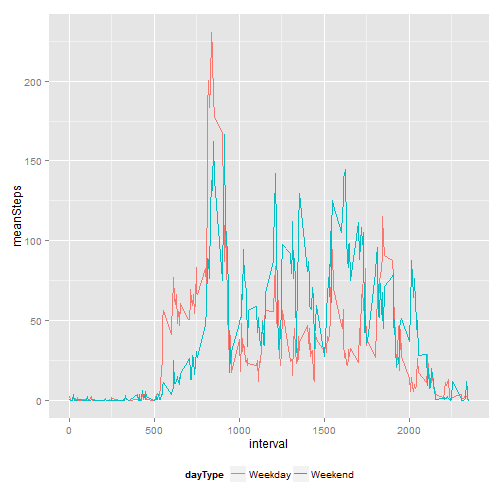
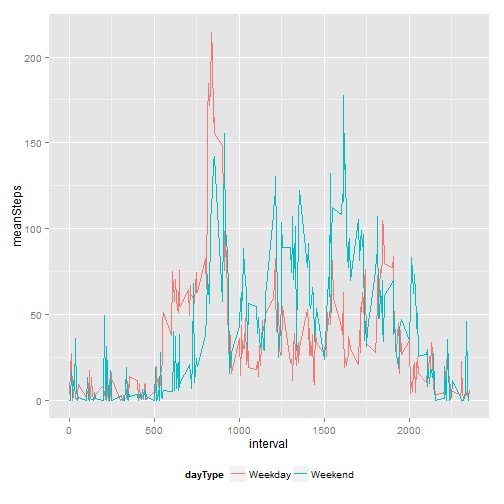
Test simple random imputation using mi package

diff --git a/PA1_template.html b/PA1_template.html
@@ -259,12 +259,46 @@ assignment so you do not have to download the data separately.</p>
 
 <p>Load packages.</p>
 
-<pre><code class="r">packages &lt;- c(&quot;data.table&quot;, &quot;ggplot2&quot;, &quot;xtable&quot;)
+<pre><code class="r">packages &lt;- c(&quot;data.table&quot;, &quot;ggplot2&quot;, &quot;xtable&quot;, &quot;mice&quot;, &quot;mi&quot;)
 sapply(packages, require, character.only = TRUE, quietly = TRUE)
 </code></pre>
 
-<pre><code>## data.table    ggplot2     xtable 
-##       TRUE       TRUE       TRUE
+<pre><code>## Warning: package &#39;mice&#39; was built under R version 3.0.3 Warning: package
+## &#39;Rcpp&#39; was built under R version 3.0.3
+</code></pre>
+
+<pre><code>## mice 2.21 2014-02-05
+</code></pre>
+
+<pre><code>## Warning: package &#39;mi&#39; was built under R version 3.0.3 Warning: package
+## &#39;arm&#39; was built under R version 3.0.3
+</code></pre>
+
+<pre><code>## Loading required package: MASS Loading required package: Matrix Loading
+## required package: lattice Loading required package: lme4
+## 
+## Attaching package: &#39;lme4&#39;
+## 
+## The following object is masked from &#39;package:ggplot2&#39;:
+## 
+## fortify
+## 
+## arm (Version 1.7-03, built: 2014-4-27)
+## 
+## Working directory is C:/Users/Ben/Documents/GitHub
+## repositories/RepData_PeerAssessment1
+## 
+## Attaching package: &#39;arm&#39;
+## 
+## The following object is masked from &#39;package:xtable&#39;:
+## 
+## display
+## 
+## mi (Version 0.09-18.03, built: 2013-8-22)
+</code></pre>
+
+<pre><code>## data.table    ggplot2     xtable       mice         mi 
+##       TRUE       TRUE       TRUE       TRUE       TRUE
 </code></pre>
 
 <blockquote>
@@ -359,7 +393,7 @@ Ignore the missing values.</p>
 
 <!-- html table generated in R 3.0.2 by xtable 1.7-1 package -->
 
-<!-- Sun May 11 07:33:42 2014 -->
+<!-- Sun May 11 13:42:30 2014 -->
 
 <TABLE border=1>
 <TR> <TH> mean </TH> <TH> median </TH>  </TR>
@@ -410,7 +444,7 @@ print(xtable(dt[, .N, isStepsMissing]), type = &quot;html&quot;, include.rowname
 
 <!-- html table generated in R 3.0.2 by xtable 1.7-1 package -->
 
-<!-- Sun May 11 07:33:43 2014 -->
+<!-- Sun May 11 13:42:30 2014 -->
 
 <TABLE border=1>
 <TR> <TH> isStepsMissing </TH> <TH> N </TH>  </TR>
@@ -418,14 +452,10 @@ print(xtable(dt[, .N, isStepsMissing]), type = &quot;html&quot;, include.rowname
   <TR> <TD> FALSE </TD> <TD align="right"> 15264 </TD> </TR>
    </TABLE>
 
-<p>Fit a linear model for the number of steps taken using the 5-minute interval as the predictor.
-Specify the 5-minute interval predictor as a factor class variable.
-This model estimates the mean number of steps taken for each 5-minute interval.
-Use the predicted values from this model to impute missing values; call this variable <code>stepsImputed</code>.</p>
+<p>Use the <a href="http://cran.r-project.org/web/packages/mi/index.html">mi</a> package to impute missing values of the <code>steps</code> variable.
+Use simple random imputation with a bootstrap method.</p>
 
-<pre><code class="r">M &lt;- lm(steps ~ factor(interval), data = dt, na.action = &quot;na.exclude&quot;)
-dt &lt;- dt[, `:=`(stepsImputed, steps)]
-dt$stepsImputed[dt$isStepsMissing] &lt;- predict(M, newdata = dt)[dt$isStepsMissing]
+<pre><code class="r">dt &lt;- dt[, `:=`(stepsImputed, random.imp(dt[, list(steps)]))]
 </code></pre>
 
 <p>Verify that there are no missing values for <code>stepsImputed</code>.</p>
@@ -436,7 +466,7 @@ dt$stepsImputed[dt$isStepsMissing] &lt;- predict(M, newdata = dt)[dt$isStepsMiss
 
 <!-- html table generated in R 3.0.2 by xtable 1.7-1 package -->
 
-<!-- Sun May 11 07:33:46 2014 -->
+<!-- Sun May 11 13:42:30 2014 -->
 
 <TABLE border=1>
 <TR> <TH> isMissing </TH> <TH> N </TH>  </TR>
@@ -474,14 +504,14 @@ dtDaily
 </code></pre>
 
 <pre><code>##           date sumSteps sumStepsImputed isImputed
-##  1: 2012-10-01        0           10766      TRUE
+##  1: 2012-10-01        0           10106      TRUE
 ##  2: 2012-10-02      126             126     FALSE
 ##  3: 2012-10-03    11352           11352     FALSE
 ##  4: 2012-10-04    12116           12116     FALSE
 ##  5: 2012-10-05    13294           13294     FALSE
 ##  6: 2012-10-06    15420           15420     FALSE
 ##  7: 2012-10-07    11015           11015     FALSE
-##  8: 2012-10-08        0           10766      TRUE
+##  8: 2012-10-08        0           10966      TRUE
 ##  9: 2012-10-09    12811           12811     FALSE
 ## 10: 2012-10-10     9900            9900     FALSE
 ## 11: 2012-10-11    10304           10304     FALSE
@@ -505,20 +535,20 @@ dtDaily
 ## 29: 2012-10-29     5018            5018     FALSE
 ## 30: 2012-10-30     9819            9819     FALSE
 ## 31: 2012-10-31    15414           15414     FALSE
-## 32: 2012-11-01        0           10766      TRUE
+## 32: 2012-11-01        0           12909      TRUE
 ## 33: 2012-11-02    10600           10600     FALSE
 ## 34: 2012-11-03    10571           10571     FALSE
-## 35: 2012-11-04        0           10766      TRUE
+## 35: 2012-11-04        0           11321      TRUE
 ## 36: 2012-11-05    10439           10439     FALSE
 ## 37: 2012-11-06     8334            8334     FALSE
 ## 38: 2012-11-07    12883           12883     FALSE
 ## 39: 2012-11-08     3219            3219     FALSE
-## 40: 2012-11-09        0           10766      TRUE
-## 41: 2012-11-10        0           10766      TRUE
+## 40: 2012-11-09        0           10411      TRUE
+## 41: 2012-11-10        0            7376      TRUE
 ## 42: 2012-11-11    12608           12608     FALSE
 ## 43: 2012-11-12    10765           10765     FALSE
 ## 44: 2012-11-13     7336            7336     FALSE
-## 45: 2012-11-14        0           10766      TRUE
+## 45: 2012-11-14        0            9797      TRUE
 ## 46: 2012-11-15       41              41     FALSE
 ## 47: 2012-11-16     5441            5441     FALSE
 ## 48: 2012-11-17    14339           14339     FALSE
@@ -534,7 +564,7 @@ dtDaily
 ## 58: 2012-11-27    13646           13646     FALSE
 ## 59: 2012-11-28    10183           10183     FALSE
 ## 60: 2012-11-29     7047            7047     FALSE
-## 61: 2012-11-30        0           10766      TRUE
+## 61: 2012-11-30        0            8831      TRUE
 ##           date sumSteps sumStepsImputed isImputed
 </code></pre>
 
@@ -544,7 +574,7 @@ dtDaily
     alpha = 1/2) + theme(legend.position = &quot;bottom&quot;)
 </code></pre>
 
[2 lines of base64/hex data omitted]
 
 <p>Calculate the mean and median total number of steps taken per day.</p>
 
@@ -555,11 +585,11 @@ dtDaily
 
 <!-- html table generated in R 3.0.2 by xtable 1.7-1 package -->
 
-<!-- Sun May 11 07:33:46 2014 -->
+<!-- Sun May 11 13:42:31 2014 -->
 
 <TABLE border=1>
 <TR> <TH> meanBefore </TH> <TH> meanImputed </TH> <TH> medianBefore </TH> <TH> medianImputed </TH>  </TR>
-  <TR> <TD align="right"> 9354.23 </TD> <TD align="right"> 10766.19 </TD> <TD align="right"> 10395 </TD> <TD align="right"> 10766.19 </TD> </TR>
+  <TR> <TD align="right"> 9354.23 </TD> <TD align="right"> 10693.85 </TD> <TD align="right"> 10395 </TD> <TD align="right"> 10600 </TD> </TR>
    </TABLE>
 
 <p>The median of the imputed values isn&#39;t so different from the original values where missing values were not imputed.
@@ -628,7 +658,7 @@ Use the imputed values in the <code>stepsImputed</code> variable.</p>
     facet_wrap(~dayType, nrow = 2) + theme(legend.position = &quot;none&quot;)
 </code></pre>
 
[2 lines of base64/hex data omitted]
 
 <p>It&#39;s a bit hard to discern any differences.
 So overlay the time series on a single plot instead of using a panel plot.</p>
@@ -637,7 +667,7 @@ So overlay the time series on a single plot instead of using a panel plot.</p>
     theme(legend.position = &quot;bottom&quot;)
 </code></pre>
 
[2 lines of base64/hex data omitted]
 
 <blockquote>
 <h2>Submitting the Assignment</h2>

diff --git a/PA1_template.md b/PA1_template.md
@@ -84,13 +84,51 @@ Load packages.
 
 
 ```r
-packages <- c("data.table", "ggplot2", "xtable")
+packages <- c("data.table", "ggplot2", "xtable", "mice", "mi")
 sapply(packages, require, character.only = TRUE, quietly = TRUE)
 ```
 
 ```
-## data.table    ggplot2     xtable 
-##       TRUE       TRUE       TRUE
+## Warning: package 'mice' was built under R version 3.0.3 Warning: package
+## 'Rcpp' was built under R version 3.0.3
+```
+
+```
+## mice 2.21 2014-02-05
+```
+
+```
+## Warning: package 'mi' was built under R version 3.0.3 Warning: package
+## 'arm' was built under R version 3.0.3
+```
+
+```
+## Loading required package: MASS Loading required package: Matrix Loading
+## required package: lattice Loading required package: lme4
+## 
+## Attaching package: 'lme4'
+## 
+## The following object is masked from 'package:ggplot2':
+## 
+## fortify
+## 
+## arm (Version 1.7-03, built: 2014-4-27)
+## 
+## Working directory is C:/Users/Ben/Documents/GitHub
+## repositories/RepData_PeerAssessment1
+## 
+## Attaching package: 'arm'
+## 
+## The following object is masked from 'package:xtable':
+## 
+## display
+## 
+## mi (Version 0.09-18.03, built: 2013-8-22)
+```
+
+```
+## data.table    ggplot2     xtable       mice         mi 
+##       TRUE       TRUE       TRUE       TRUE       TRUE
 ```
 
 
@@ -205,7 +243,7 @@ print(xtable(dtDaily[, list(mean = mean(sumSteps), median = median(sumSteps))]),
 ```
 
 <!-- html table generated in R 3.0.2 by xtable 1.7-1 package -->
-<!-- Sun May 11 07:33:42 2014 -->
+<!-- Sun May 11 13:42:30 2014 -->
 <TABLE border=1>
 <TR> <TH> mean </TH> <TH> median </TH>  </TR>
   <TR> <TD align="right"> 9354.23 </TD> <TD align="right"> 10395 </TD> </TR>
@@ -261,7 +299,7 @@ print(xtable(dt[, .N, isStepsMissing]), type = "html", include.rownames = FALSE)
 ```
 
 <!-- html table generated in R 3.0.2 by xtable 1.7-1 package -->
-<!-- Sun May 11 07:33:43 2014 -->
+<!-- Sun May 11 13:42:30 2014 -->
 <TABLE border=1>
 <TR> <TH> isStepsMissing </TH> <TH> N </TH>  </TR>
   <TR> <TD> TRUE </TD> <TD align="right"> 2304 </TD> </TR>
@@ -269,16 +307,12 @@ print(xtable(dt[, .N, isStepsMissing]), type = "html", include.rownames = FALSE)
    </TABLE>
 
 
-Fit a linear model for the number of steps taken using the 5-minute interval as the predictor.
-Specify the 5-minute interval predictor as a factor class variable.
-This model estimates the mean number of steps taken for each 5-minute interval.
-Use the predicted values from this model to impute missing values; call this variable `stepsImputed`.
+Use the [mi](http://cran.r-project.org/web/packages/mi/index.html) package to impute missing values of the `steps` variable.
+Use simple random imputation with a bootstrap method.
 
 
 ```r
-M <- lm(steps ~ factor(interval), data = dt, na.action = "na.exclude")
-dt <- dt[, `:=`(stepsImputed, steps)]
-dt$stepsImputed[dt$isStepsMissing] <- predict(M, newdata = dt)[dt$isStepsMissing]
+dt <- dt[, `:=`(stepsImputed, random.imp(dt[, list(steps)]))]
 ```
 
 
@@ -291,7 +325,7 @@ print(xtable(dt[, .N, list(isMissing = is.na(stepsImputed))]), type = "html",
 ```
 
 <!-- html table generated in R 3.0.2 by xtable 1.7-1 package -->
-<!-- Sun May 11 07:33:46 2014 -->
+<!-- Sun May 11 13:42:30 2014 -->
 <TABLE border=1>
 <TR> <TH> isMissing </TH> <TH> N </TH>  </TR>
   <TR> <TD> FALSE </TD> <TD align="right"> 17568 </TD> </TR>
@@ -336,14 +370,14 @@ dtDaily
 
 ```
 ##           date sumSteps sumStepsImputed isImputed
-##  1: 2012-10-01        0           10766      TRUE
+##  1: 2012-10-01        0           10106      TRUE
 ##  2: 2012-10-02      126             126     FALSE
 ##  3: 2012-10-03    11352           11352     FALSE
 ##  4: 2012-10-04    12116           12116     FALSE
 ##  5: 2012-10-05    13294           13294     FALSE
 ##  6: 2012-10-06    15420           15420     FALSE
 ##  7: 2012-10-07    11015           11015     FALSE
-##  8: 2012-10-08        0           10766      TRUE
+##  8: 2012-10-08        0           10966      TRUE
 ##  9: 2012-10-09    12811           12811     FALSE
 ## 10: 2012-10-10     9900            9900     FALSE
 ## 11: 2012-10-11    10304           10304     FALSE
@@ -367,20 +401,20 @@ dtDaily
 ## 29: 2012-10-29     5018            5018     FALSE
 ## 30: 2012-10-30     9819            9819     FALSE
 ## 31: 2012-10-31    15414           15414     FALSE
-## 32: 2012-11-01        0           10766      TRUE
+## 32: 2012-11-01        0           12909      TRUE
 ## 33: 2012-11-02    10600           10600     FALSE
 ## 34: 2012-11-03    10571           10571     FALSE
-## 35: 2012-11-04        0           10766      TRUE
+## 35: 2012-11-04        0           11321      TRUE
 ## 36: 2012-11-05    10439           10439     FALSE
 ## 37: 2012-11-06     8334            8334     FALSE
 ## 38: 2012-11-07    12883           12883     FALSE
 ## 39: 2012-11-08     3219            3219     FALSE
-## 40: 2012-11-09        0           10766      TRUE
-## 41: 2012-11-10        0           10766      TRUE
+## 40: 2012-11-09        0           10411      TRUE
+## 41: 2012-11-10        0            7376      TRUE
 ## 42: 2012-11-11    12608           12608     FALSE
 ## 43: 2012-11-12    10765           10765     FALSE
 ## 44: 2012-11-13     7336            7336     FALSE
-## 45: 2012-11-14        0           10766      TRUE
+## 45: 2012-11-14        0            9797      TRUE
 ## 46: 2012-11-15       41              41     FALSE
 ## 47: 2012-11-16     5441            5441     FALSE
 ## 48: 2012-11-17    14339           14339     FALSE
@@ -396,7 +430,7 @@ dtDaily
 ## 58: 2012-11-27    13646           13646     FALSE
 ## 59: 2012-11-28    10183           10183     FALSE
 ## 60: 2012-11-29     7047            7047     FALSE
-## 61: 2012-11-30        0           10766      TRUE
+## 61: 2012-11-30        0            8831      TRUE
 ##           date sumSteps sumStepsImputed isImputed
 ```
 
@@ -422,10 +456,10 @@ print(xtable(dtDaily[, list(meanBefore = mean(sumSteps), meanImputed = mean(sumS
 ```
 
 <!-- html table generated in R 3.0.2 by xtable 1.7-1 package -->
-<!-- Sun May 11 07:33:46 2014 -->
+<!-- Sun May 11 13:42:31 2014 -->
 <TABLE border=1>
 <TR> <TH> meanBefore </TH> <TH> meanImputed </TH> <TH> medianBefore </TH> <TH> medianImputed </TH>  </TR>
-  <TR> <TD align="right"> 9354.23 </TD> <TD align="right"> 10766.19 </TD> <TD align="right"> 10395 </TD> <TD align="right"> 10766.19 </TD> </TR>
+  <TR> <TD align="right"> 9354.23 </TD> <TD align="right"> 10693.85 </TD> <TD align="right"> 10395 </TD> <TD align="right"> 10600 </TD> </TR>
    </TABLE>
 
 
